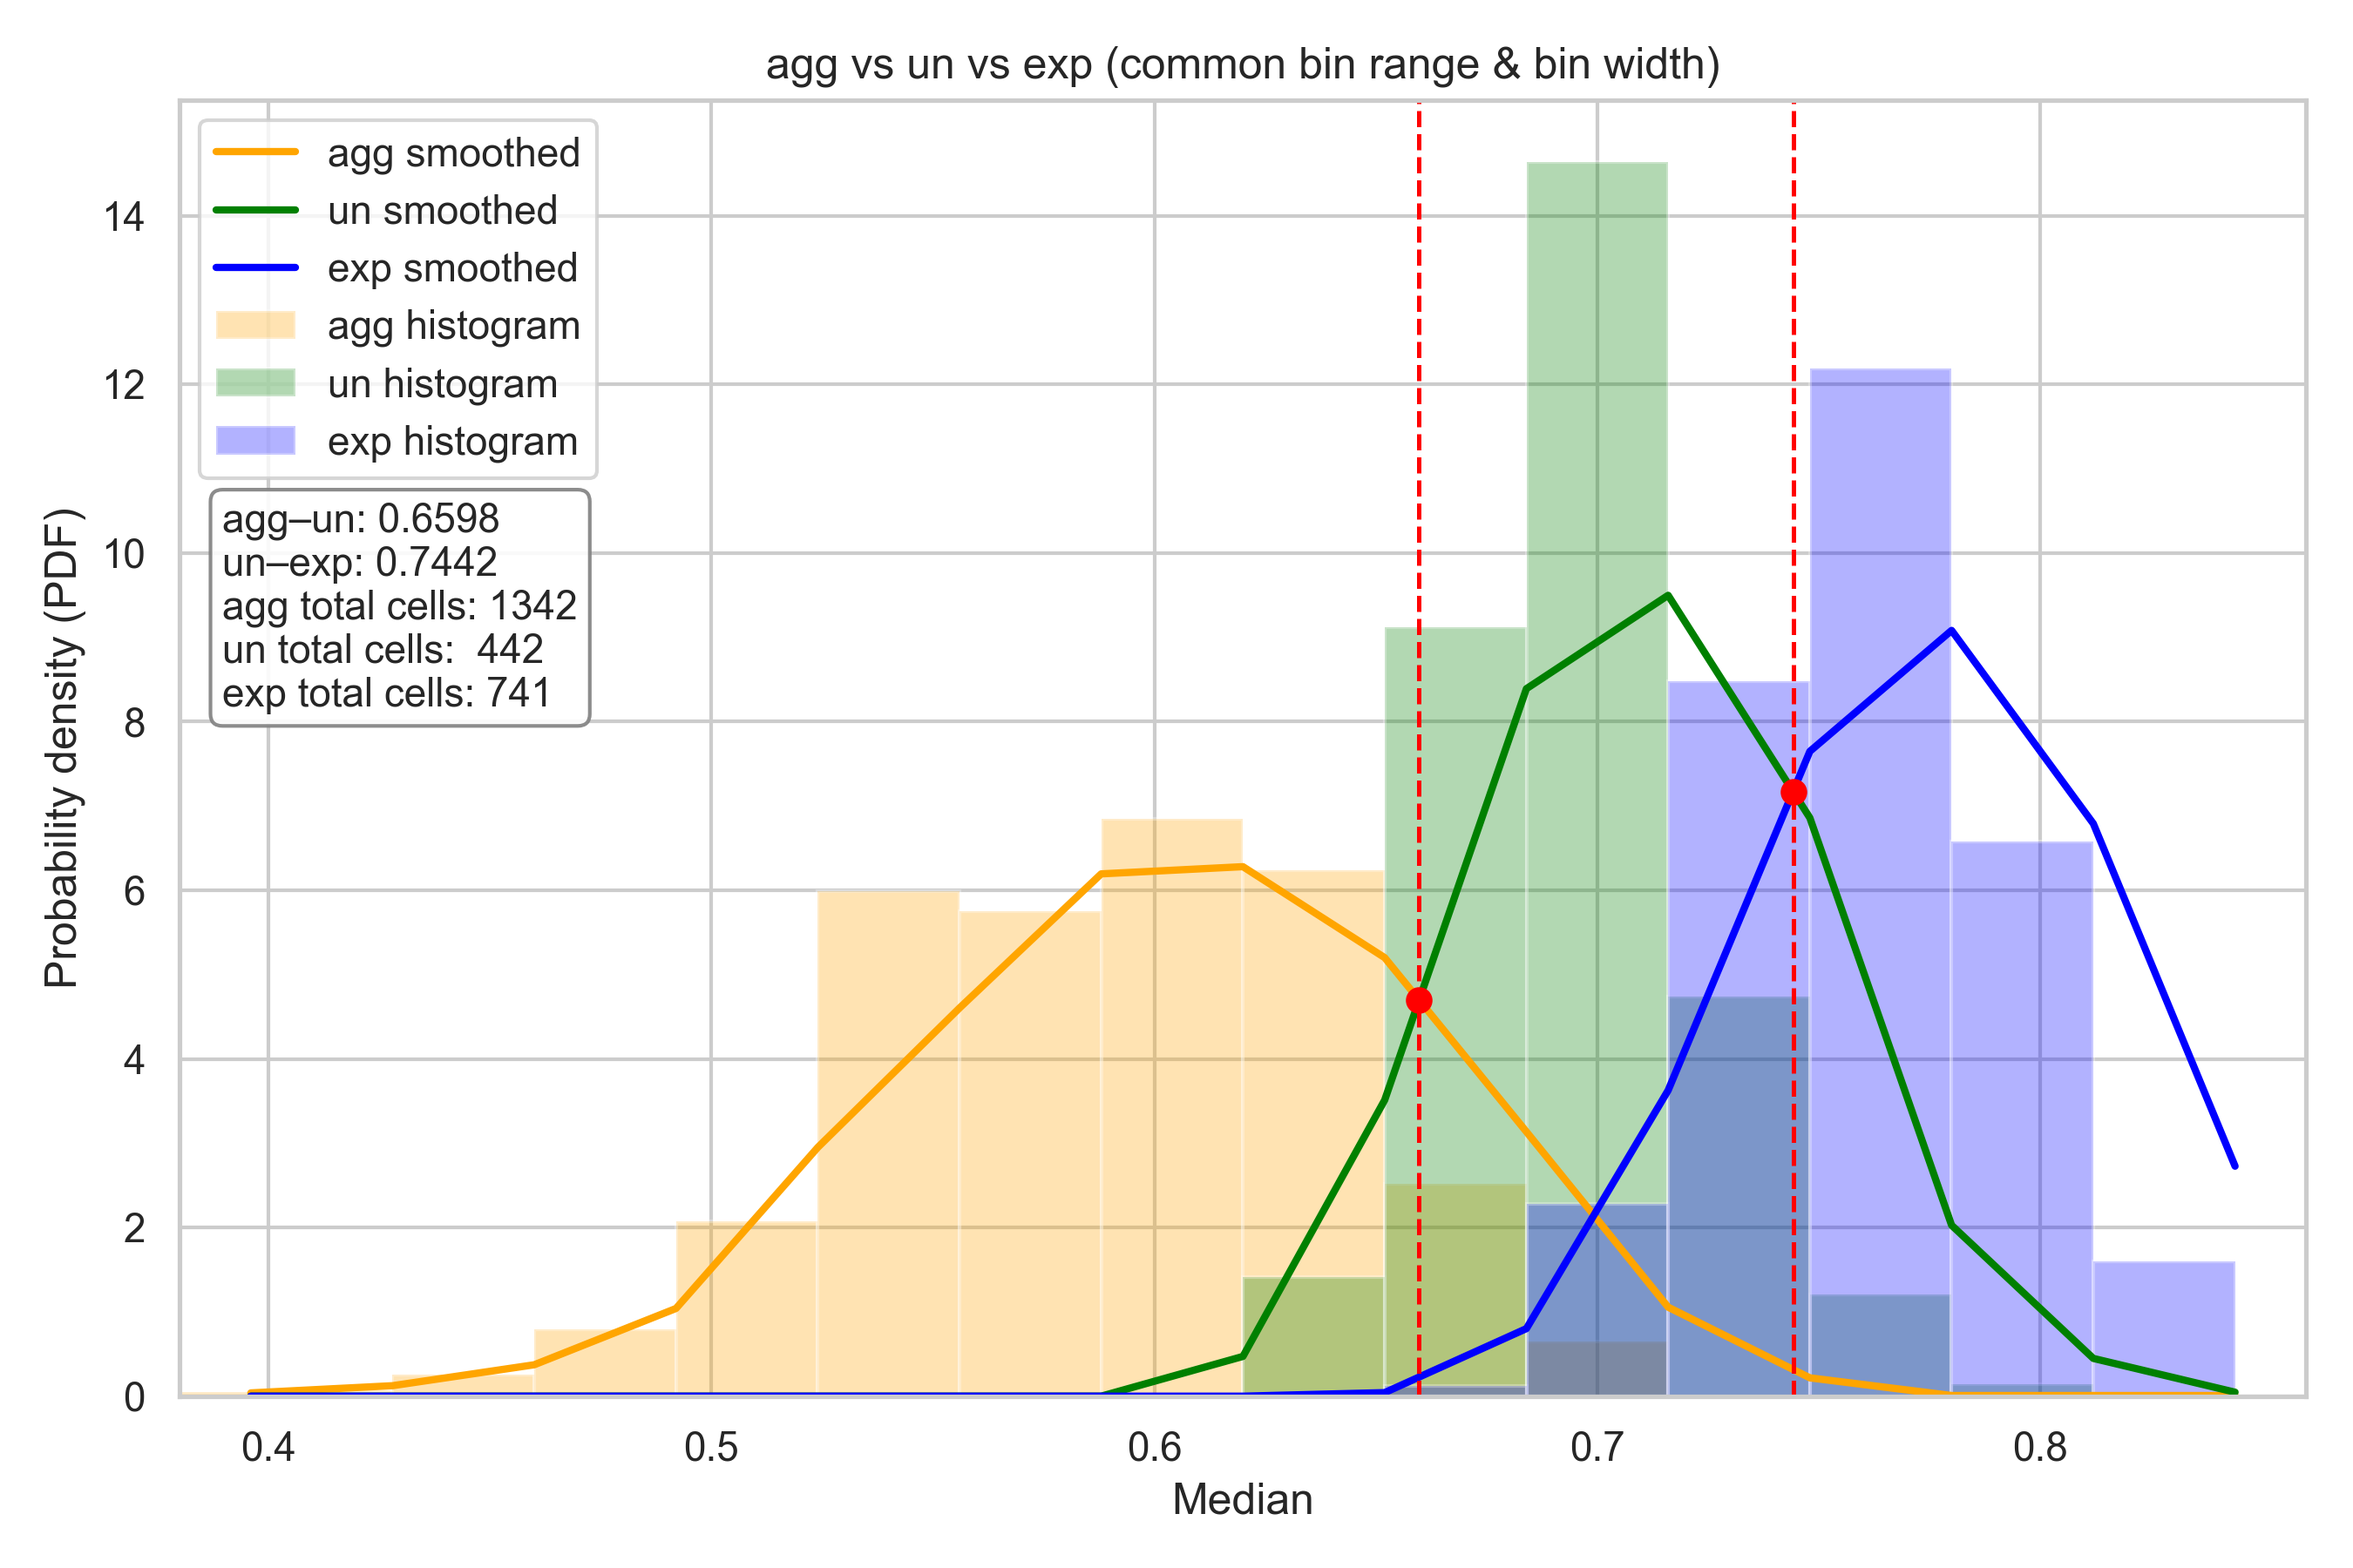
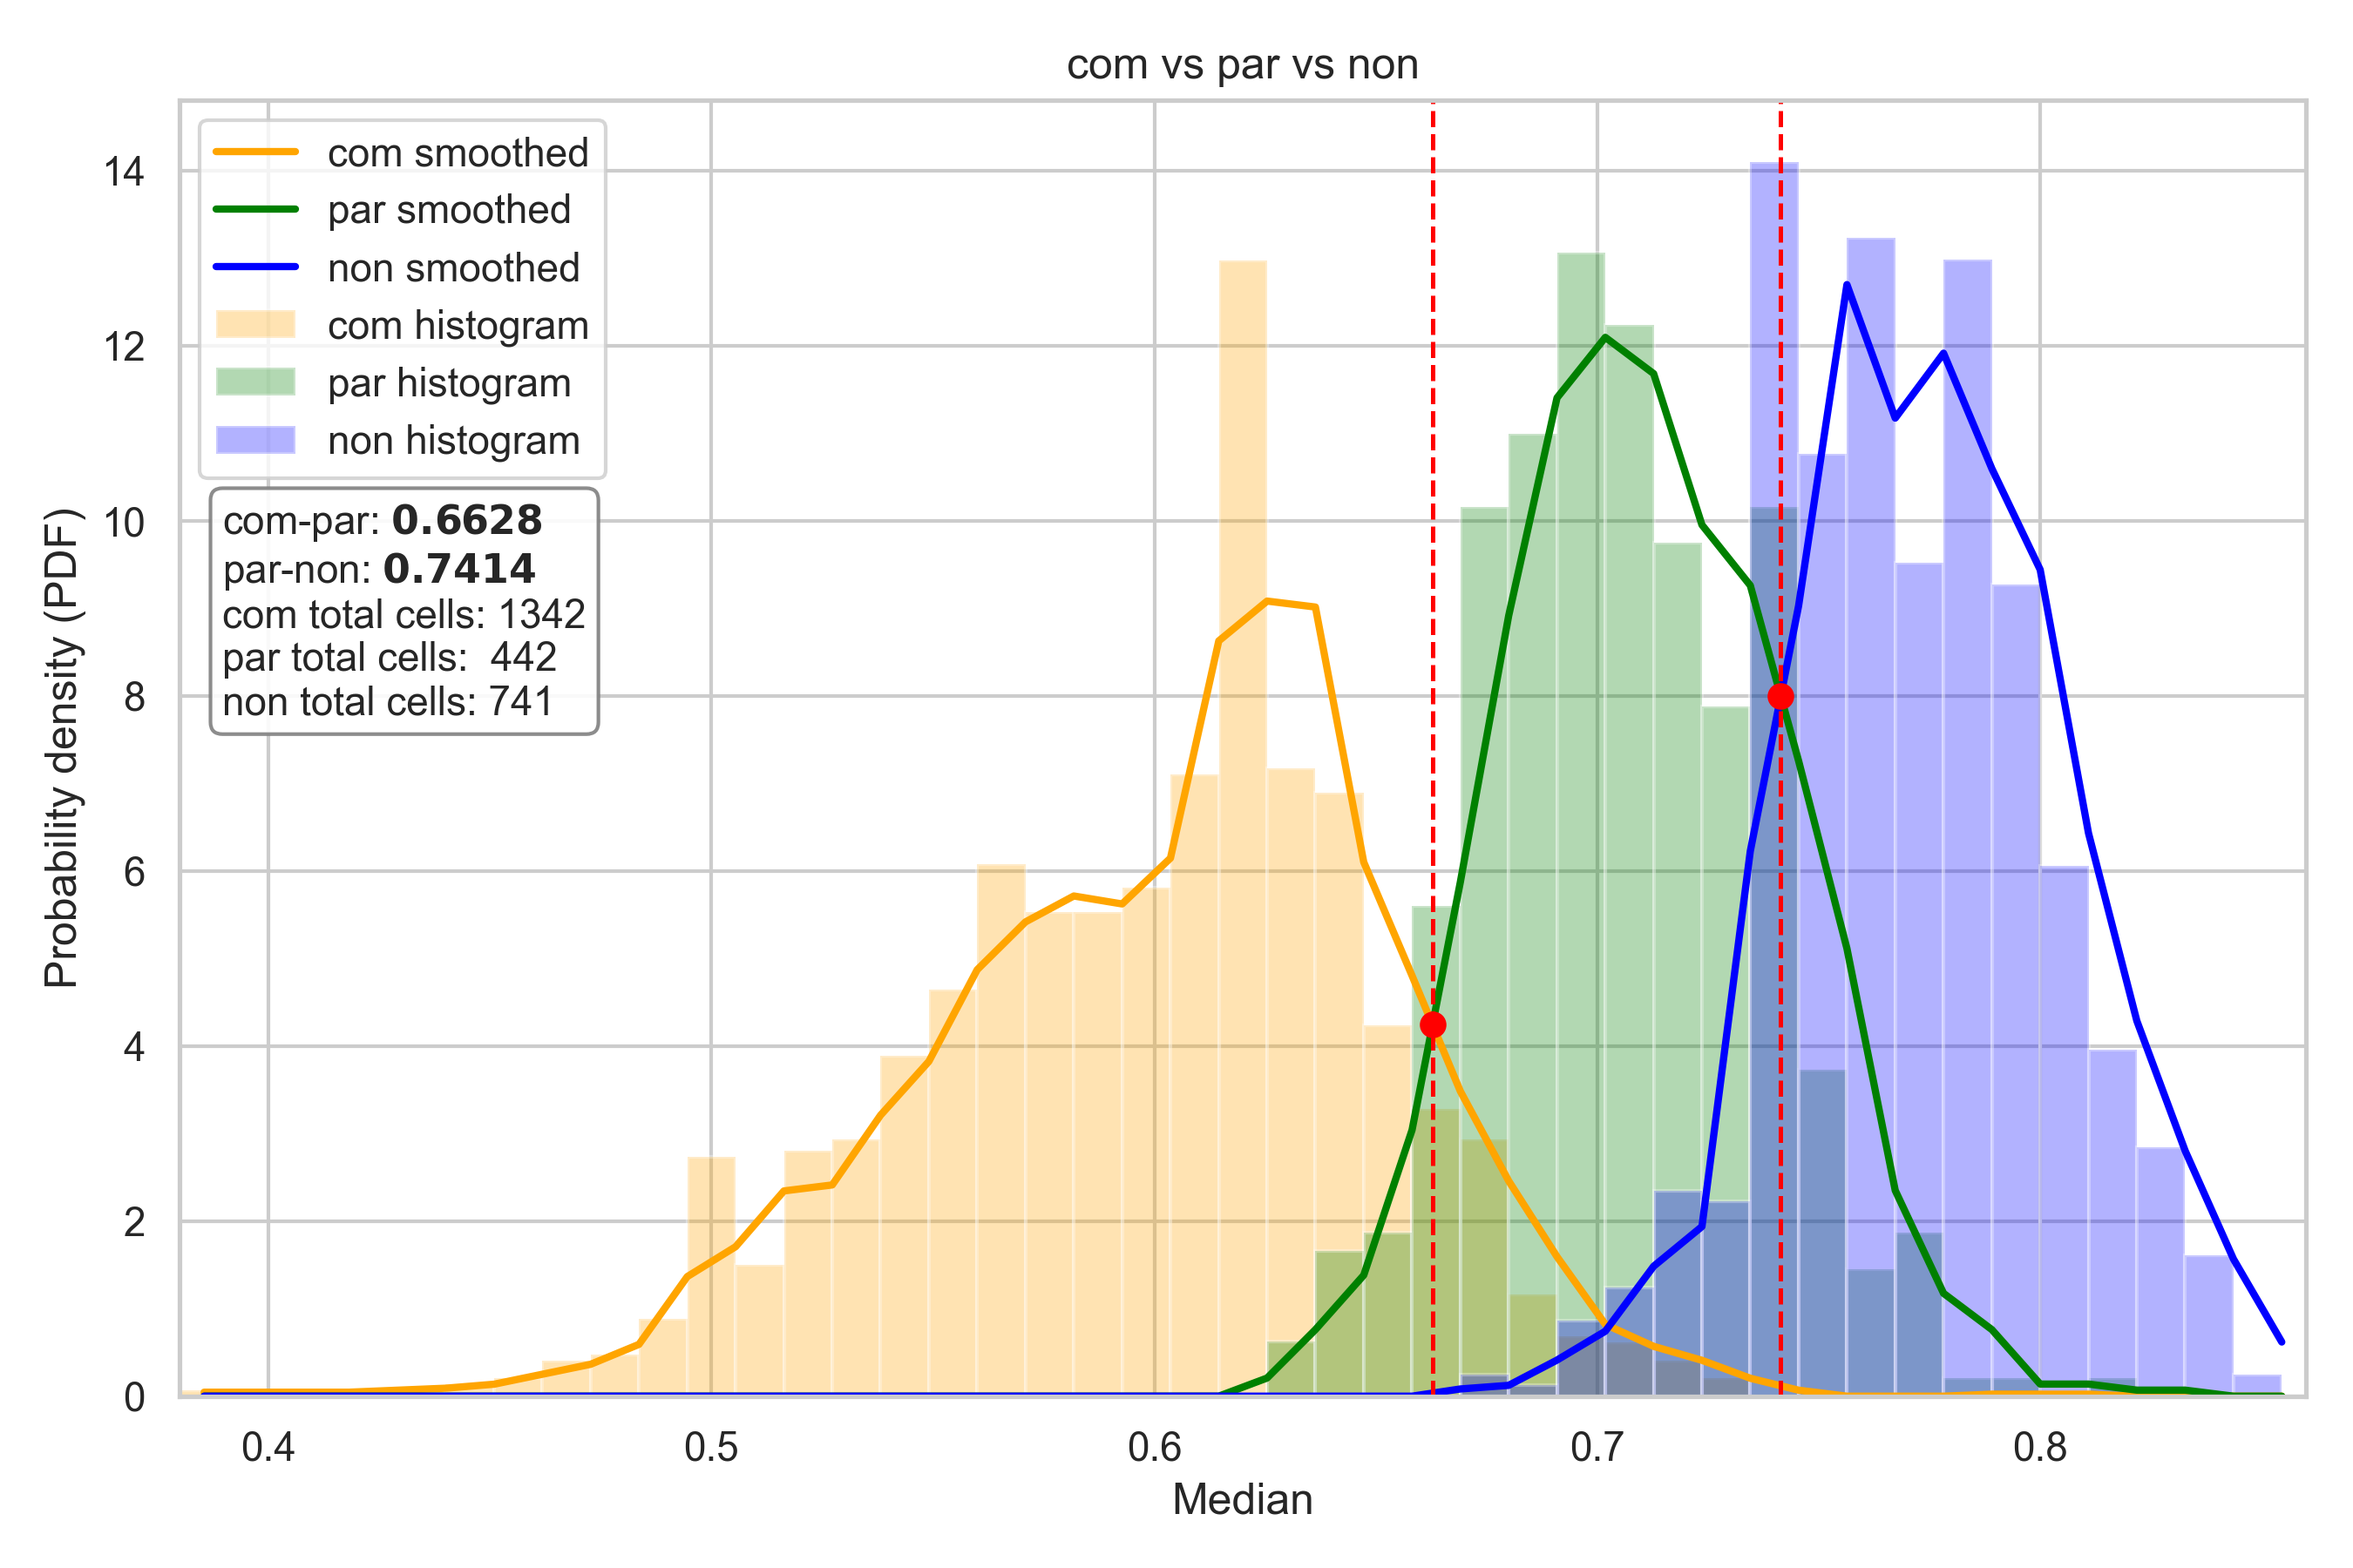
par

diff --git a/makingraph_thre_all_pdf_co.py b/makingraph_thre_all_pdf_co.py
@@ -7,7 +7,7 @@ import seaborn as sns
 sns.set(style="whitegrid")
 
 
-csv_paths_exp = [
+csv_paths_non = [
     "398_bta_exp_1111-completed.db_median_fluo1_fluo_intensities.csv",
     "p7_bta_exp_1111-completed.db_median_fluo1_fluo_intensities.csv",
     "398_bta_exp_1023-completed.db_median_fluo1_fluo_intensities (1).csv",
@@ -20,7 +20,7 @@ csv_paths_exp = [
     "p7_bta_0exp-completed.db_median_fluo_intensities.csv",
 ]
 
-csv_paths_un = [
+csv_paths_par = [
     "398_bta_13_1016-completed.db_median_fluo1_fluo_intensities_2.csv",
     "398_bta_15_1023-completed.db_median_fluo1_fluo_intensities_2.csv",
     "398_bta_18_1023-completed.db_median_fluo1_fluo_intensities_2.csv",
@@ -32,7 +32,7 @@ csv_paths_un = [
     "p7_bta_18_1009-completed.db_median_fluo1_fluo_intensities_2.csv",
 ]
 
-csv_paths_agg = [
+csv_paths_com = [
     "398_bta_15_1008-completed.db_median_fluo1_fluo_intensities_1.csv",
     "398_bta_18_1008-completed.db_median_fluo1_fluo_intensities_1.csv",
     "398_bta_18_1015-completed.db_median_fluo1_fluo_intensities_1.csv",
@@ -59,37 +59,42 @@ def load_group(paths):
     return np.concatenate(arr) if len(arr) else np.array([])
 
 
-data_exp = load_group(csv_paths_exp)
-data_un  = load_group(csv_paths_un)
-data_agg = load_group(csv_paths_agg)
+data_non = load_group(csv_paths_non)
+data_par  = load_group(csv_paths_par)
+data_com = load_group(csv_paths_com)
 
-if data_exp.size == 0 or data_un.size == 0 or data_agg.size == 0:
+if data_non.size == 0 or data_par.size == 0 or data_com.size == 0:
     print("データ読み込みエラー")
     exit()
 
-total_exp = len(data_exp)
-total_un  = len(data_un)
-total_agg = len(data_agg)
-print(f"Total cells - exp: {total_exp}, un: {total_un}, agg: {total_agg}")
+total_non = len(data_non)
+total_par  = len(data_par)
+total_com = len(data_com)
+print(f"Total cells - non: {total_non}, par: {total_par}, com: {total_com}")
 
-combined_min = min(data_exp.min(), data_un.min(), data_agg.min())
-combined_max = max(data_exp.max(), data_un.max(), data_agg.max())
-
-bins = 15
+combined_min = min(data_non.min(), data_par.min(), data_com.min())
+combined_max = max(data_non.max(), data_par.max(), data_com.max())
+# Use a denser binning based on Freedman-Diaconis with a floor for stability.
+combined_data = np.concatenate([data_non, data_par, data_com])
+iqr = np.subtract(*np.percentile(combined_data, [75, 25]))
+fd_width = 2 * iqr / (len(combined_data) ** (1 / 3)) if len(combined_data) > 0 else 0
+fd_bins = int(np.ceil((combined_max - combined_min) / fd_width)) if fd_width > 0 else 0
+# Slightly wider bins: use 80% of FD-estimated bin count with a modest floor.
+bins = max(int(fd_bins * 0.8), 44)
 bin_edges   = np.linspace(combined_min, combined_max, bins + 1)
 bin_centers = (bin_edges[:-1] + bin_edges[1:]) / 2
 bin_width   = bin_edges[1] - bin_edges[0]
 
-hist_exp, _  = np.histogram(data_exp, bins=bin_edges, density=True)
-hist_un, _   = np.histogram(data_un,  bins=bin_edges, density=True)
-hist_agg, _  = np.histogram(data_agg, bins=bin_edges, density=True)
+hist_non, _  = np.histogram(data_non, bins=bin_edges, density=True)
+hist_par, _   = np.histogram(data_par,  bins=bin_edges, density=True)
+hist_com, _  = np.histogram(data_com, bins=bin_edges, density=True)
 
 def smooth(x, w=3):
     return np.convolve(x, np.ones(w) / w, mode="same")
 
-smooth_exp = smooth(hist_exp, 3)
-smooth_un  = smooth(hist_un, 3)
-smooth_agg = smooth(hist_agg, 3)
+smooth_non = smooth(hist_non, 3)
+smooth_par  = smooth(hist_par, 3)
+smooth_com = smooth(hist_com, 3)
 
 
 def find_intersections(x, y1, y2):
@@ -104,48 +109,50 @@ def find_intersections(x, y1, y2):
     return roots
 
 
-roots_agg_un = find_intersections(bin_centers, smooth_agg, smooth_un)
-roots_un_exp = find_intersections(bin_centers, smooth_un,  smooth_exp)
+roots_com_par = find_intersections(bin_centers, smooth_com, smooth_par)
+roots_par_non = find_intersections(bin_centers, smooth_par,  smooth_non)
 
-all_roots = sorted(roots_agg_un + roots_un_exp)
+all_roots = sorted(roots_com_par + roots_par_non)
 
-print("\nagg–un intersections:", roots_agg_un)
-print("un–exp intersections:", roots_un_exp)
+print("\ncom-par intersections:", roots_com_par)
+print("par-non intersections:", roots_par_non)
 print("all intersections (sorted):", all_roots)
 
 plt.figure(figsize=(9, 6))
 
-plt.bar(bin_centers - bin_width/2, hist_agg, width=bin_width,
-        color="orange", alpha=0.3, label="agg histogram")
-plt.bar(bin_centers - bin_width/2, hist_un,  width=bin_width,
-        color="green",  alpha=0.3, label="un histogram")
-plt.bar(bin_centers - bin_width/2, hist_exp, width=bin_width,
-        color="blue",   alpha=0.3, label="exp histogram")
+plt.bar(bin_centers - bin_width/2, hist_com, width=bin_width,
+        color="orange", alpha=0.3, label="com histogram")
+plt.bar(bin_centers - bin_width/2, hist_par,  width=bin_width,
+        color="green",  alpha=0.3, label="par histogram")
+plt.bar(bin_centers - bin_width/2, hist_non, width=bin_width,
+        color="blue",   alpha=0.3, label="non histogram")
 
-plt.plot(bin_centers, smooth_agg, color="orange", lw=2, label="agg smoothed")
-plt.plot(bin_centers, smooth_un,  color="green",  lw=2, label="un smoothed")
-plt.plot(bin_centers, smooth_exp, color="blue",   lw=2, label="exp smoothed")
+plt.plot(bin_centers, smooth_com, color="orange", lw=2, label="com smoothed")
+plt.plot(bin_centers, smooth_par,  color="green",  lw=2, label="par smoothed")
+plt.plot(bin_centers, smooth_non, color="blue",   lw=2, label="non smoothed")
 
-for r in roots_agg_un:
-    y = np.interp(r, bin_centers, smooth_agg)
+for r in roots_com_par:
+    y = np.interp(r, bin_centers, smooth_com)
     plt.scatter(r, y, color="red", s=40, zorder=5)
     plt.axvline(r, color="red", ls="--", lw=1.2)
 
-for r in roots_un_exp:
-    y = np.interp(r, bin_centers, smooth_un)
+for r in roots_par_non:
+    y = np.interp(r, bin_centers, smooth_par)
     plt.scatter(r, y, color="red", s=40, zorder=5)
     plt.axvline(r, color="red", ls="--", lw=1.2)
 
 ax = plt.gca()
 plt.legend(loc="upper left")
 
+def fmt_roots(vals):
+    return ", ".join(fr"$\mathbf{{{x:.4f}}}$" for x in vals) if vals else "None"
+
 info_lines = [
-    "agg–un: " + (", ".join(f"{x:.4f}" for x in roots_agg_un) if roots_agg_un else "None"),
-    "un–exp: " + (", ".join(f"{x:.4f}" for x in roots_un_exp) if roots_un_exp else "None"),
-    # "all (sorted): " + (", ".join(f"{x:.4f}" for x in all_roots) if all_roots else "None"),
-    f"agg total cells: {total_agg}",
-    f"un total cells:  {total_un}",
-    f"exp total cells: {total_exp}",
+    f"com-par: {fmt_roots(roots_com_par)}",
+    f"par-non: {fmt_roots(roots_par_non)}",
+    f"com total cells: {total_com}",
+    f"par total cells:  {total_par}",
+    f"non total cells: {total_non}",
 ]
 info_text = "\n".join(info_lines)
 
@@ -153,9 +160,10 @@ ax.text(0.02, 0.69, info_text,
         transform=ax.transAxes, ha="left", va="top", fontsize=11,
         bbox=dict(boxstyle="round,pad=0.3", fc="white", ec="gray", alpha=0.9))
 
+
 plt.xlabel("Median")
 plt.ylabel("Probability density (PDF)")
-plt.title("agg vs un vs exp (common bin range & bin width)")
+plt.title("com vs par vs non")
 plt.xlim(combined_min, combined_max)
 plt.tight_layout()
 plt.savefig("all_pdf_common.png", dpi=300)
